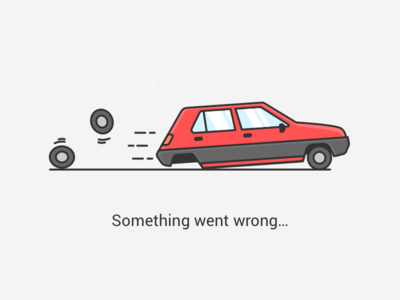
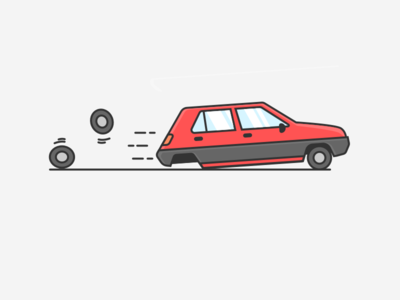
Implemented translations to the maps and stats.

Changed region(s): [[0.27, 0.69, 0.72, 0.78]]

diff --git a/lib/pages/stats_page.dart b/lib/pages/stats_page.dart
@@ -1,10 +1,11 @@
 import 'dart:convert';
 
+import 'package:easy_localization/easy_localization.dart';
 import 'package:flutter/material.dart';
 
 import 'package:fl_chart/fl_chart.dart';
 import 'package:flutter/gestures.dart';
-import 'package:intl/intl.dart';
+import 'package:moi_results_mobile_app_2022/localization/localization_constants.dart';
 import 'package:provider/provider.dart';
 
 import '../providers/stats_provider.dart';
@@ -77,7 +78,7 @@ class _StatsPageState extends State<StatsPage> {
     debugPrint('build() on Stats Page');
     return Scaffold(
       appBar: AppBar(
-        title: Wjts.text(context, 'Statistics'),
+        title: Wjts.text(context, Translations.statsPageTitle.tr()),
         centerTitle: true,
       ),
       body: SingleChildScrollView(
@@ -106,7 +107,7 @@ class _StatsPageState extends State<StatsPage> {
                 children: <Widget>[
                   Padding(
                     padding: const EdgeInsets.fromLTRB(0, 20, 0, 20),
-                    child: Wjts.text(context, "Candidates & Seats", size: TextSize.l, weight: FontWeight.bold),
+                    child: Wjts.text(context, Translations.statsPageCandSeats.tr(), size: TextSize.l, weight: FontWeight.bold),
                   ),
                   Row(
                     children: [
@@ -124,7 +125,7 @@ class _StatsPageState extends State<StatsPage> {
                               text: TextSpan(
                                   children: <TextSpan>[
                                     TextSpan(text: value.toString(), style: const TextStyle(color: Colors.green, fontWeight: FontWeight.bold, fontSize: 40)),
-                                    TextSpan(text: '\nNo. of Seats', style: TextStyle(color: Colors.grey[600], fontWeight: FontWeight.normal, fontSize: 14)),
+                                    TextSpan(text: '\n${Translations.statsPageSeats.tr()}', style: TextStyle(color: Colors.grey[600], fontWeight: FontWeight.normal, fontSize: 14)),
                                   ]
                               ),
                             );
@@ -142,7 +143,7 @@ class _StatsPageState extends State<StatsPage> {
                                 text: TextSpan(
                                   children: <TextSpan>[
                                     TextSpan(text: data.getNoOfCandidates().toString(), style: TextStyle(color: Colors.grey[600], fontWeight: FontWeight.bold, fontSize: 40)),
-                                    TextSpan(text: '\nNo. of Candidates', style: TextStyle(color: Colors.grey[600], fontWeight: FontWeight.normal, fontSize: 14)),
+                                    TextSpan(text: '\n${Translations.statsPageCandidates.tr()}', style: TextStyle(color: Colors.grey[600], fontWeight: FontWeight.normal, fontSize: 14)),
                                   ]
                                 )
                               );
@@ -165,7 +166,7 @@ class _StatsPageState extends State<StatsPage> {
                 children: <Widget>[
                   Padding(
                     padding: const EdgeInsets.fromLTRB(0, 20, 0, 0),
-                    child: Wjts.text(context, "Registered Voters", size: TextSize.l, weight: FontWeight.bold),
+                    child: Wjts.text(context, Translations.statsPageRegVoters.tr(), size: TextSize.l, weight: FontWeight.bold),
                   ),
                   SizedBox(
                       height: 260,
@@ -210,7 +211,7 @@ class _StatsPageState extends State<StatsPage> {
                                             return PieChartSectionData(
                                               color: Colors.blue,
                                               value: data.getMaleRegVoterCount().toDouble(),
-                                              title: '${((data.getMaleRegVoterCount()/data.getTotalRegVoterCount())*100).toStringAsFixed(2)}% - Male',
+                                              title: '${((data.getMaleRegVoterCount()/data.getTotalRegVoterCount())*100).toStringAsFixed(2)}% - ${Translations.male.tr()}',
                                               radius: radius,
                                               titleStyle: TextStyle(
                                                   fontSize: fontSize, fontWeight: FontWeight.normal, color: Colors.white),
@@ -219,7 +220,7 @@ class _StatsPageState extends State<StatsPage> {
                                             return PieChartSectionData(
                                               color: Colors.pink,
                                               value: data.getFemaleRegVoterCount().toDouble(),
-                                              title: '${((data.getFemaleRegVoterCount()/data.getTotalRegVoterCount())*100).toStringAsFixed(2)}% - Female',
+                                              title: '${((data.getFemaleRegVoterCount()/data.getTotalRegVoterCount())*100).toStringAsFixed(2)}% - ${Translations.female.tr()}',
                                               radius: radius,
                                               titleStyle: TextStyle(
                                                   fontSize: fontSize, fontWeight: FontWeight.normal, color: Colors.white),
@@ -246,7 +247,7 @@ class _StatsPageState extends State<StatsPage> {
                 children: <Widget>[
                   Padding(
                     padding: const EdgeInsets.fromLTRB(0, 20, 0, 30),
-                    child: Wjts.text(context, "Voter Turnout", size: TextSize.l, weight: FontWeight.bold),
+                    child: Wjts.text(context, Translations.statsPageVoterTurnout.tr(), size: TextSize.l, weight: FontWeight.bold),
                   ),
                   SizedBox(
                       height: 250,
@@ -328,16 +329,16 @@ class _StatsPageState extends State<StatsPage> {
                                         String text = '';
                                         switch (value.toInt()) {
                                           case 0:
-                                            text = 'Female Turnout';
+                                            text = Translations.statsPageFemaleTurnout.tr();
                                             break;
                                           case 1:
-                                            text = 'Male Turnout';
+                                            text = Translations.statsPageMaleTurnout.tr();
                                             break;
                                           case 2:
-                                            text = 'Total Turnout';
+                                            text = Translations.statsPageTotTurnout.tr();
                                             break;
                                           case 3:
-                                            text = 'Total Registered';
+                                            text = Translations.statsPageTotReg.tr();
                                             break;
                                           default:
                                             text = '';

diff --git a/lib/pages/map_page_json.dart b/lib/pages/map_page_json.dart
@@ -1,5 +1,7 @@
+import 'package:easy_localization/easy_localization.dart';
 import 'package:flutter/cupertino.dart';
 import 'package:flutter/material.dart';
+import 'package:moi_results_mobile_app_2022/localization/localization_constants.dart';
 import 'package:provider/provider.dart';
 import 'package:syncfusion_flutter_maps/maps.dart';
 import 'package:url_launcher/url_launcher_string.dart';
@@ -104,7 +106,7 @@ class _MapPageJSONState extends State<MapPageJSON> {
                                 mainAxisAlignment: MainAxisAlignment.center,
                                 children: [
                                   ElevatedButton(
-                                    child: Wjts.text(context, 'Get Directions'),
+                                    child: Wjts.text(context, Translations.mapsPageGetDir.tr()),
                                     onPressed: (){
                                       String googleUrl = 'https://www.google.com/maps/search/?api=1&query=$latitude,$longitude';
                                       canLaunchUrlString(googleUrl).then((canLaunch) {
@@ -134,7 +136,7 @@ class _MapPageJSONState extends State<MapPageJSON> {
   @override
   Widget build(BuildContext context) {
     return Scaffold(
-      appBar: Wjts.appBar(context, 'Polling Stations'),
+      appBar: Wjts.appBar(context, Translations.mapsPageTitle.tr()),
       body: Column(
         children: <Widget>[
           Row(
@@ -156,13 +158,13 @@ class _MapPageJSONState extends State<MapPageJSON> {
                           children: [
                             Consumer<PollingStationMapProvider>(
                               builder: (context, data, child) {
-                                return Wjts.text(context, 'Regular: ${data.getRegularPolStnCount()}', weight: FontWeight.bold, color: Colors.red[700]);
+                                return Wjts.text(context, '${Translations.mapsPageRegular.tr()}: ${data.getRegularPolStnCount()}', weight: FontWeight.bold, color: Colors.red[700]);
                               }
                             ),
                             Consumer<PollingStationMapProvider>(
-                                builder: (context, data, child) {
-                                  return Wjts.text(context, 'Unified: ${_pollingStationMapProvider!.getUnifiedPolStnCount()}', weight: FontWeight.bold, color: Colors.blue[700]);
-                                }
+                              builder: (context, data, child) {
+                                return Wjts.text(context, '${Translations.mapsPageUnified.tr()}: ${_pollingStationMapProvider!.getUnifiedPolStnCount()}', weight: FontWeight.bold, color: Colors.blue[700]);
+                              }
                             ),
                           ],
                         ),

diff --git a/lib/localization/localization_constants.dart b/lib/localization/localization_constants.dart
@@ -46,13 +46,24 @@ class Translations {
   static const String mins = "mins";
   static const String sec = "sec";
   static const String secs = "secs";
+  static const String yes = "yes";
+  static const String no = "no";
+  static const String male = "male";
+  static const String female = "female";
 
   static const String settingsPageTitle = "settings_page_title";
   static const String settingsPageRegWilayat = "settings_page_reg_wilayat";
   static const String settingsPageRegWilayatPlaceHolder = "settings_page_reg_wilayat_place_holder";
+  static const String settingsPageLang = "settings_page_lang";
+  static const String settingsPageVer = "settings_page_ver";
+  static const String settingsPageLocDatMsg = "settings_page_loc_dat_msg";
   
   static const String mapsPageSelectWilayat = "maps_page_select_wilayat";
   static const String mapsPageSelectWilayatPlaceHolder = "maps_page_select_wilayat_place_holder";
+  static const String mapsPageTitle = "maps_page_title";
+  static const String mapsPageGetDir = "maps_page_get_dir";
+  static const String mapsPageRegular = "maps_page_regular";
+  static const String mapsPageUnified = "maps_page_unified";
 
   static const String candidateProfilePageTitle = "candidate_profile_page_title";
 
@@ -60,9 +71,23 @@ class Translations {
   static const String candidatesPageSelWilMsg = "candidates_page_sel_wil_msg";
   static const String candidatesPageSelectWilayat = "candidates_page_select_wilayat";
   static const String candidatesPageSelectWilayatPlaceHolder = "candidates_page_select_wilayat_place_holder";
+
+  static const String errorPageTitle = "error_page_title";
+  static const String errorPageTechDetails = "error_page_tech_details";
+  static const String errorPagePressBack = "error_page_press_back";
   
   static const String statsPageSelectWilayat = "stats_page_select_wilayat";
   static const String statsPageSelectWilayatPlaceHolder = "stats_page_select_wilayat_place_holder";
+  static const String statsPageTitle = "stats_page_title";
+  static const String statsPageCandSeats = "stats_page_cand_seats";
+  static const String statsPageCandidates = "stats_page_candidates";
+  static const String statsPageSeats = "stats_page_seats";
+  static const String statsPageRegVoters = "stats_page_reg_voters";
+  static const String statsPageVoterTurnout = "stats_page_voter_turnout";
+  static const String statsPageMaleTurnout = "stats_page_male_turnout";
+  static const String statsPageFemaleTurnout = "stats_page_female_turnout";
+  static const String statsPageTotTurnout = "stats_page_tot_turnout";
+  static const String statsPageTotReg = "stats_page_tot_reg";
 }
 
 class Languages{

diff --git a/lib/pages/settings_page.dart b/lib/pages/settings_page.dart
@@ -52,7 +52,7 @@ class _SettingsPageState extends State<SettingsPage> {
               leading: const Image(
                 image: AssetImage('assets/images/language_2.png'),
               ),
-              title: Wjts.text(context, 'Language'),
+              title: Wjts.text(context, Translations.settingsPageLang.tr()),
               subtitle: Wjts.text(context, Languages.currentLanguageName),
               trailing: Switch(value: Languages.isEnglish, onChanged: (val) {
                 Languages.isEnglish = val;
@@ -99,24 +99,24 @@ class _SettingsPageState extends State<SettingsPage> {
               leading: const Image(
                 image: AssetImage('assets/images/version_1.png'),
               ),
-              title: Wjts.text(context, 'Version'),
-              subtitle: Wjts.text(context, 'v1.0 (beta) - [w:${GlobalVars.wilayatsDataVersion}, p:${GlobalVars.polStnsDataVersion}, c:${GlobalVars.candidatesDataVersion}]'),
+              title: Wjts.text(context, Translations.settingsPageVer.tr()),
+              subtitle: Wjts.text(context, 'v${GlobalVars.appVersion} - [w:${GlobalVars.wilayatsDataVersion}, p:${GlobalVars.polStnsDataVersion}, c:${GlobalVars.candidatesDataVersion}]'),
               onLongPress: (){
                 debugPrint("Long pressed on version");
                 showDialog(
                   context: context,
                   barrierDismissible: false,
                   builder: (_) => AlertDialog(
-                    content: Wjts.text(context, 'Are you sure you want to clear the local data?'),
+                    content: Wjts.text(context, '${Translations.settingsPageLocDatMsg.tr()}?'),
                     actions: <Widget>[
                       TextButton(
-                        child: Wjts.text(context, 'No'),
+                        child: Wjts.text(context, Translations.no.tr()),
                         onPressed: () {
                           Navigator.of(context).pop(false);
                         },
                       ),
                       TextButton(
-                        child: Wjts.text(context, 'Yes'),
+                        child: Wjts.text(context, Translations.yes.tr()),
                         onPressed: () {
                           _clearStoredData();
                           Navigator.of(context).pop(true);

diff --git a/lib/pages/error_page.dart b/lib/pages/error_page.dart
@@ -1,5 +1,7 @@
 
+import 'package:easy_localization/easy_localization.dart';
 import 'package:flutter/material.dart';
+import 'package:moi_results_mobile_app_2022/localization/localization_constants.dart';
 
 import '../shared/global.dart';
 
@@ -33,17 +35,17 @@ class _ErrorPageState extends State<ErrorPage> {
     }
     debugPrint('build() on Error Page - $_msg');
     return Scaffold(
-      appBar: Wjts.appBar(context, 'Oops...'),
+      appBar: Wjts.appBar(context, Translations.errorPageTitle.tr()),
       body: Stack(
         children: [
-          Container(
-            decoration: const BoxDecoration(
-              image: DecorationImage(
-                image: AssetImage("assets/images/bg_01.png"),
-                fit: BoxFit.cover,
-              ),
-            ),
-          ),
+          // Container(
+          //   decoration: const BoxDecoration(
+          //     image: DecorationImage(
+          //       image: AssetImage("assets/images/bg_01.png"),
+          //       fit: BoxFit.cover,
+          //     ),
+          //   ),
+          // ),
           SingleChildScrollView(
             child: Column(
               mainAxisAlignment:  MainAxisAlignment.center,
@@ -95,7 +97,7 @@ class _ErrorPageState extends State<ErrorPage> {
                                         padding: const EdgeInsets.fromLTRB(10, 5, 10, 0),
                                         child: Row(
                                           children: [
-                                            Wjts.text(context, 'Technical Details', size: TextSize.m),
+                                            Wjts.text(context, Translations.errorPageTechDetails.tr(), size: TextSize.m),
                                           ],
                                         ),
                                       );
@@ -112,7 +114,7 @@ class _ErrorPageState extends State<ErrorPage> {
                                 ]
                             ),
                             const SizedBox(height: 40,),
-                            Wjts.text(context, 'Press back to close', size: TextSize.m),
+                            Wjts.text(context, Translations.errorPagePressBack.tr(), size: TextSize.m),
                           ],
                         ),
                       ),

diff --git a/lib/shared/global.dart b/lib/shared/global.dart
@@ -42,6 +42,8 @@ class GlobalVars{
   static int? polStnsDataVersion = 0;
   static int? candidatesDataVersion = 0;
 
+  static double appVersion = 1.0;
+
 // static User user = User();
 }
 
